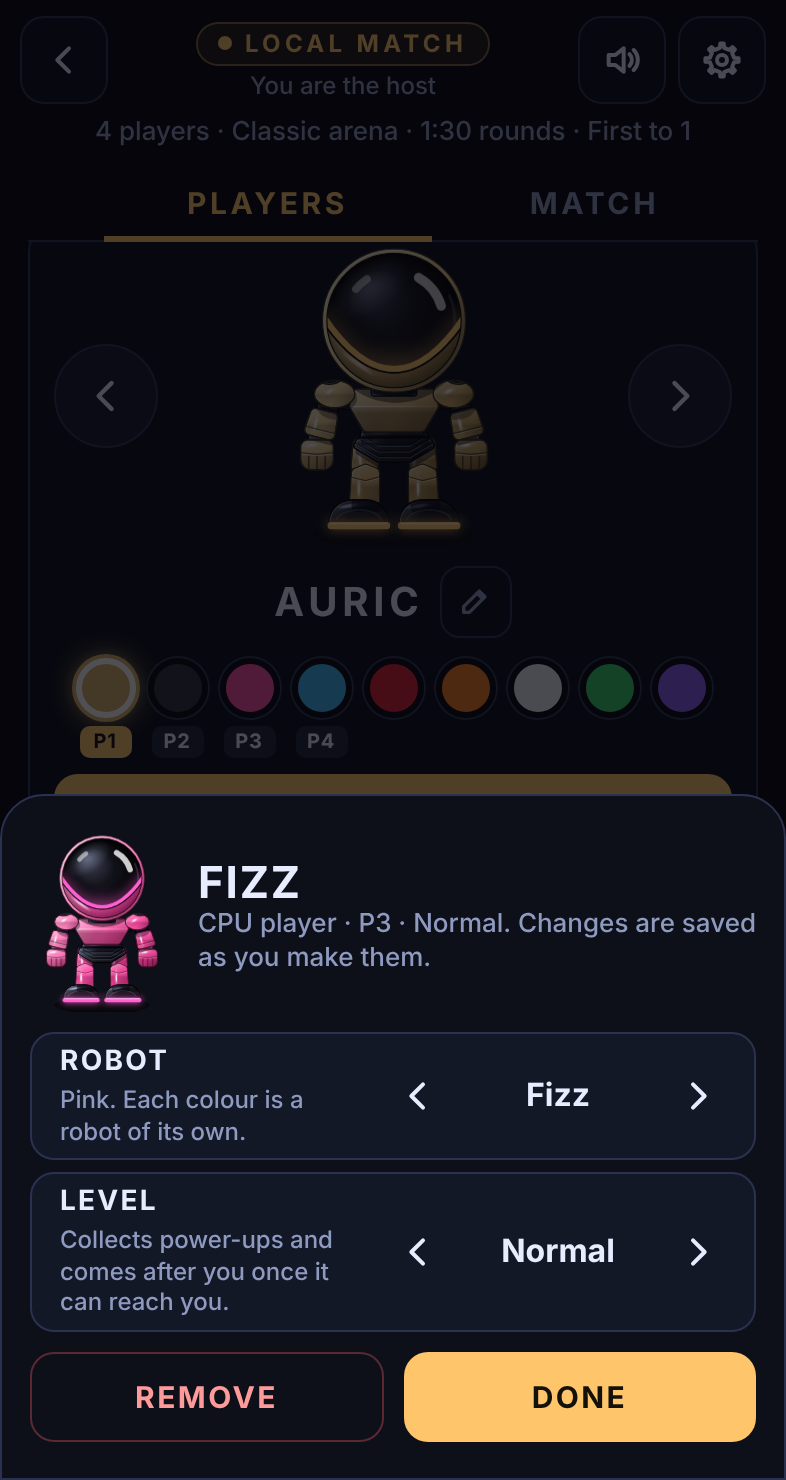
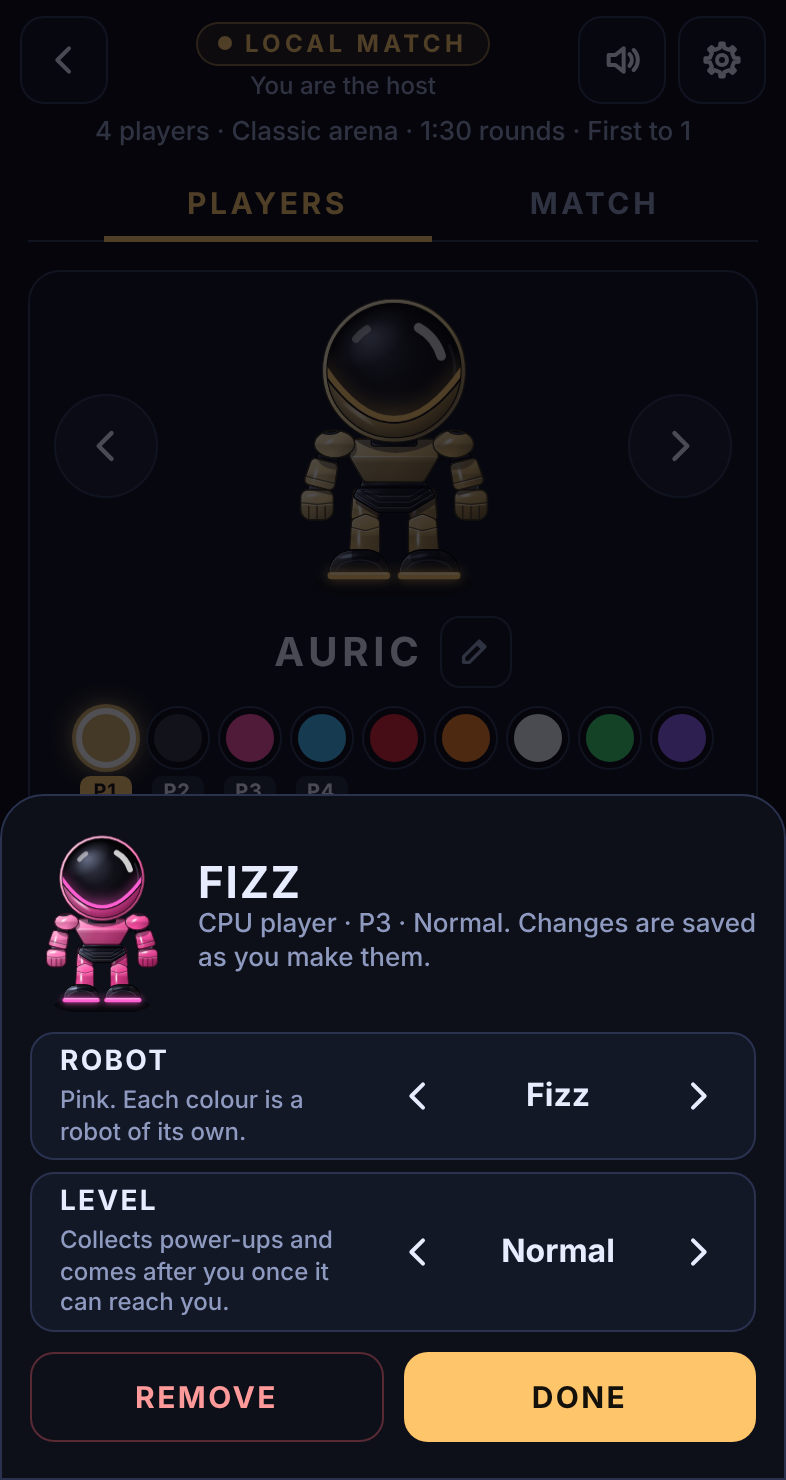
The Players page has no bottom button: Next › or the Match page name go on
Claude-Session: https://claude.ai/code/session_011ftAyXDt63myZfd3j4Vhew

diff --git a/src/lobby.ts b/src/lobby.ts
@@ -624,15 +624,9 @@ export function createLobby(host: LobbyHost): {
   $('lobbyBack').addEventListener('click', () => host.back());
   $('lobbySound').addEventListener('click', () => host.settings('sound'));
   $('lobbySettings').addEventListener('click', () => host.settings());
-  // The main button: on the Players page it goes on to the Match page (the owner's call: a match cannot be
-  // started from the Players page). On the Match page, or a wide screen showing both, it starts the match.
-  $('lobbyStart').addEventListener('click', () => {
-    if (page === 'players' && !wide()) {
-      setPage('match');
-      return;
-    }
-    tryStart();
-  });
+  // The main button, Start: on the Match page, or a wide screen showing both. The Players page has no bottom
+  // bar at all (the owner's ask): its ways on are Next › (Ready, once pressed), the Match page name, and RB or E.
+  $('lobbyStart').addEventListener('click', tryStart);
   // a second Start right under the arena picture, close to hand (the owner's ask); the same as the one in the bar
   $('arenaStart').addEventListener('click', tryStart);
   /** The other players here who have not pressed Ready (with the robot they are showing). */
@@ -783,17 +777,13 @@ export function createLobby(host: LobbyHost): {
     refreshRules();
     // the summary at the top, and whether Start can be pressed
     $('lobbySummary').textContent = summary(s(), G);
-    // the main button: Match › on the Players page, Start on the Match page (or a wide screen)
+    // the main button: Start on the Match page (or a wide screen); none on the Players page
     const go = $<HTMLButtonElement>('lobbyStart');
     const toMatch = page === 'players' && !wide();
-    go.textContent = toMatch ? 'Match ›' : 'Start';
-    // its hint: RB (or E) turns to the Match page; ≡ starts
-    go.dataset.pad = toMatch ? 'RB' : '≡';
-    if (toMatch) go.dataset.key = 'E';
-    else delete go.dataset.key;
-    go.setAttribute('aria-label', toMatch ? 'Go on to the Match page' : 'Start the match');
+    go.parentElement!.hidden = toMatch;
+    go.dataset.pad = '≡'; // its hint
     const why = problem(s(), G);
-    go.disabled = !toMatch && !!why;
+    go.disabled = !!why;
     ($('arenaStart') as HTMLButtonElement).disabled = !!why;
     const note = $('startNote');
     const late = waiting().map((g) => `P${guests().indexOf(g) + 2}`);
@@ -820,7 +810,7 @@ export function createLobby(host: LobbyHost): {
       nameBox.hidden = true;
       $('youName').hidden = false;
       setPage(p ?? page);
-      $('lobbyStart').focus({ preventScroll: true });
+      $(page === 'players' && !wide() ? 'colOk' : 'lobbyStart').focus({ preventScroll: true });
     },
     hide(): void {
       hideUndo();

diff --git a/src/page.html b/src/page.html
@@ -427,6 +427,7 @@
     #lobby .pages-row { height: 0; border: 0; overflow: hidden; visibility: hidden; }
   }
   .foot { flex: 0 0 auto; display: grid; grid-template-columns: 108px minmax(0, 1fr) 108px; align-items: center; gap: 8px; padding: 6px 12px 12px; max-width: 560px; width: 100%; margin: 0 auto; }
+  .foot[hidden] { display: none; }
   .foot.one { grid-template-columns: minmax(0, 1fr); max-width: 420px; }
   .foot-note { flex: 0 0 auto; margin: 0 14px; text-align: center; font: 500 13px/1.3 var(--font-body); color: #ff9a9a; min-height: 0; }
   .foot-note:empty { display: none; }
@@ -732,7 +733,7 @@
   <button id="btnA" class="tbtn" type="button" aria-label="A button, drop bomb">A</button>
 </div>
 
-<!-- The lobby: two pages, Players and Match, with one slim button in the bottom bar (Match › or Start).
+<!-- The lobby: two pages, Players and Match, with one slim Start in the bottom bar on the Match page (none on the Players page).
      main.ts and lobby.ts fill it in. On a wide screen both pages show side by side. -->
 <div id="lobby" class="screen" hidden>
   <header class="bar">
@@ -799,7 +800,7 @@
   <div class="undo" id="undoBar" role="status" hidden><span id="undoText"></span><button class="mini" id="undoBtn" type="button">Undo</button></div>
   <p class="foot-note" id="startNote" role="status"></p>
   <footer class="foot one">
-    <button id="lobbyStart" class="go big" type="button">Start</button>
+    <button id="lobbyStart" class="go big" type="button" data-pad="≡">Start</button>
   </footer>
 </div>
 

diff --git a/tools/screenshots.py b/tools/screenshots.py
@@ -76,11 +76,11 @@ class Thumb:
 
 
 async def start_round(page):
-    """From the lobby (as a fresh visit leaves it, on the Players page): Ready, Match ›, then Start."""
+    """From the lobby (as a fresh visit leaves it, on the Players page): Ready, Next ›, then Start."""
     if await page.evaluate("document.getElementById('lobbyMatch').hidden"):
-        if not await page.evaluate("document.getElementById('colOk').disabled"):
+        if await page.evaluate("document.getElementById('colOk').textContent") != "Next ›":
             await page.tap("#colOk")  # Ready
-        await page.tap("#lobbyStart")  # Match ›
+        await page.tap("#colOk")  # Next ›
     await page.tap("#lobbyStart")
     if await page.evaluate("!document.getElementById('confirm').hidden"):
         await page.tap("#confirmYes")
@@ -119,7 +119,7 @@ async def main():
         await page.tap("#colOk")
         await page.wait_for_timeout(500)
         await page.screenshot(path=str(OUT / "lobby-ready.png"))
-        await page.tap("#lobbyStart")  # Match ›
+        await page.tap("#colOk")  # Next ›
         await page.wait_for_timeout(100)
         await page.screenshot(path=str(OUT / "lobby-match.png"))
         await page.tap("#lobbyPrev")

diff --git a/CLAUDE.md b/CLAUDE.md
@@ -38,7 +38,7 @@ Do not undo these unless asked. The reasons are in `docs/ROADMAP.md` and `docs/C
 - The robot stops where you let go. Whole-tile stepping was tried and rejected (`stepAssist` exists in `sim.ts` but stays off, with no menu setting).
 - A resting thumb has a quiet zone; small movements, slow drift and bounce-back are ignored. Its size is fixed (`QUIET` 30 px). A menu choice of swipe length was tried and removed: do not bring it back unless asked.
 - The Players page has no explanations (the owner's call): no help paragraphs, only a short "Swaps with P3" under your robot's name when Ready would swap with a CPU player. Settings' icon is a gear.
-- The lobby (`lobby.ts`, setup in `setup.ts`), built to the owner's notes on an approved mockup: every button works, back and forward work, more than one way to do each thing, a switch that reveals a slider under it, more options, each CPU player's level its own, and saying whether play is local or online. Two pages, Players and Match. The Players page cannot start a match (the owner's call): its bottom bar is one wide **Match ›** button. The bottom bars are slim (the owner's ask). The Match page's way back to Players is a ‹ at the top left beside the page names (`lobbyPrev`, the owner's ask), and its bar is **Start**; there is a second Start right under the arena picture (the owner's ask, to be close to hand; `arenaStart`, the same `tryStart`); Start when you are not ready asks first ("Are you ready?", its button just **Ready & Start**, no robot names, the owner's wording; the same button when other players here are not ready), and a line above the bar says you are not ready. On a wide screen both pages show side by side and the button is Start. Players: your colour by ‹ ›, dots or a swipe; once you press Ready the button becomes **Next ›**, on to the Match page (the owner's ask; just ✓ Ready on a wide screen); a card per player; a CPU player's panel (Colour, Level, Remove, Done); Add CPU player up to seven (eight players in all: the owner's limit); a bin on each CPU player's card removes it at once, with Undo; All CPUs. Match (the host's): the arena (Compact, Classic, Big) and the rules (Round timer with length and Closing in, Rounds to win, Bricks, Custom start, Custom power-ups; Put the rules back to normal). Sliders have − and + beside them. Saved as it changes. Build any new setting from `ui.ts` controls, and only add one that really does something.
+- The lobby (`lobby.ts`, setup in `setup.ts`), built to the owner's notes on an approved mockup: every button works, back and forward work, more than one way to do each thing, a switch that reveals a slider under it, more options, each CPU player's level its own, and saying whether play is local or online. Two pages, Players and Match. The Players page cannot start a match (the owner's call) and has no bottom bar (the owner's ask); its ways on are Next › (Ready, once pressed), the Match page name, and RB or E. The bottom bars are slim (the owner's ask). The Match page's way back to Players is a ‹ at the top left beside the page names (`lobbyPrev`, the owner's ask), and its bar is **Start**; there is a second Start right under the arena picture (the owner's ask, to be close to hand; `arenaStart`, the same `tryStart`); Start when you are not ready asks first ("Are you ready?", its button just **Ready & Start**, no robot names, the owner's wording; the same button when other players here are not ready), and a line above the bar says you are not ready. On a wide screen both pages show side by side and the button is Start. Players: your colour by ‹ ›, dots or a swipe; once you press Ready the button becomes **Next ›**, on to the Match page (the owner's ask; just ✓ Ready on a wide screen); a card per player; a CPU player's panel (Colour, Level, Remove, Done); Add CPU player up to seven (eight players in all: the owner's limit); a bin on each CPU player's card removes it at once, with Undo; All CPUs. Match (the host's): the arena (Compact, Classic, Big) and the rules (Round timer with length and Closing in, Rounds to win, Bricks, Custom start, Custom power-ups; Put the rules back to normal). Sliders have − and + beside them. Saved as it changes. Build any new setting from `ui.ts` controls, and only add one that really does something.
 - Each colour is a robot with a name of its own (`bot` in `COLORS`, `botName` in `render.ts`; Claude's names, asked for by the owner): Gold Auric, Black Onyx, Pink Fizz, Blue Volt, Red Blaze, Orange Tango, White Frost, Green Gizmo, Purple Vortex. The menus and results use these names in place of colour words: the big name over the colour dots in the lobby, the player cards, a CPU player's panel (its Robot choice), the menu's standings, "Volt wins the round", "Caught in Fizz's blast". A CPU player's name is its robot's, so it changes with its colour.
 - You can type your own name: the pencil beside the name over the colour dots swaps it for a box (`myName`; up to 12 characters, saved as `playerName`; Enter, a tap elsewhere or the pencil again finishes; emptied, it goes back to the robot's name). It shows there, on your player card and in the menu's standings in place of the robot's name or "You" (the owner's design, in place of a "Your name" row); results still say "You". Online, every real player will type theirs there. A typed name is always set as text, never as markup, and the game's keys (moves, A, B, Q, E) are ignored while typing (`typing` in `input.ts`).
 - Ask first (`confirmFirst` in `ui.ts`) before anything that cannot be undone: Restart, Leave to the lobby, Put the rules back to normal. Removing a CPU player (the bin on its card, or Remove on its panel) does not ask, as the owner wanted it quick: it shows an Undo bar for six seconds instead. Nothing else asks. Escape goes back one step everywhere; Q and E turn pages.

diff --git a/docs/ROADMAP.md b/docs/ROADMAP.md
@@ -128,7 +128,7 @@ This is the brief the project started from.
 | The lobby (November 2026) | Built after the owner's brainstorm and a mockup he approved, then his notes on it: every button must work, back and forward must work, allow for what the player meant in more than one way, a switch that reveals a slider under it, more options for every setting, each CPU player's level its own, and say whether the match is local or online. Two pages, Players and Match, with page names along the top and the other page's name either side of Start at the bottom; on a wide screen both side by side. **Players:** your colour three ways (‹ ›, a dot each, a swipe across the robot); a card per player; a CPU player's card opens its panel (Colour, Level, Remove, Done); Add CPU player, up to three; All CPUs sets every level at once. **Match** (the host's): the arena (Compact, Classic, Big; ‹ ›, dots or a swipe; the picture is the real arena) and the rules: Round timer (switch; length and Closing in under it), Rounds to win, Bricks, Custom start (switch; bombs, blast, speed under it), Custom power-ups (switch; one slider per power-up under it), and Put the rules back to normal. Every slider has − and + beside it. Everything is saved as it changes. A "Local match" chip and "You are the host" are at the top, with a one-line summary of the match. Claude's design within those notes. |
 | Allowing for what the player meant | Read as two things: more than one way to do each thing (arrows, dots, swipes, tapping a switch's name as well as the switch, − and + beside sliders, keys: ← →, Q and E for pages, Escape back one step), and asking first before anything that cannot be undone (Restart, Leave to the lobby, Put the rules back to normal; removing a CPU player at first, until the owner asked for a quick bin, which shows Undo instead). Nothing else asks. |
 | Picking your colour, then Ready | The owner's design: in solo play you can pick any colour, a CPU player's included, and a CPU player wearing it takes the one you had. Picking shows the colour on your robot; **Ready** (first called OK; renamed by the owner) makes it yours, pops up a P1 tag under its dot, and puts a ✓ Ready check on your player card. Tags P2 to P9 sit under the CPU players' colours, and their cards are always ✓ Ready. A double tap on a dot is a quick Ready. Picking another colour takes Ready away until it is pressed again. Ready resets for every match, not when coming back from Settings. Online, every player will press Ready on their own colour, and can pick another and press it again. (The lobby's first version greyed out the CPU players' colours.) Colours can only change in the lobby, between matches. |
-| The Players page cannot start a match | The owner's call: its bottom bar is one wide Match › button, so the only way on is the Match page, where Start is. Start when you are not ready asks first, and the Match page says you are not ready. On a wide screen, with both pages showing, the button is Start. |
+| The Players page cannot start a match | The owner's call: the only way on is the Match page, where Start is. The Players page had a wide Match › button at the bottom; the owner later asked for it to go, so its ways on are Next › (Ready, once pressed) and the Match page name. Start when you are not ready asks first, and the Match page says you are not ready. On a wide screen, with both pages showing, the button is Start. |
 | Up to eight players | The owner asked for up to eight CPU players at first, then set the limit at eight players in all (seven CPU players). Starting places follow his plan: four in the corners, a fifth in the middle, six with two in the middle row, and past six a bigger arena (two tiles bigger each way). Seven and eight also use the middle of the edges (`spawnPoints` in `sim.ts`, tested for every count and size: everyone on open floor, at least four tiles apart). With more than four players the scoreboard has a place for each: upright in the free line under the top bar, sideways in rows of five. Nine Hard CPU players cost under half a millisecond a tick on a laptop. Online play will use the same places. |
 | Next round while you are out gives the round to a CPU player | The owner's call for solo play: if you are knocked out and press Next round while CPU players are still fighting, one of those still in, picked at random, gets the round and its point, so the score always moves. If that point wins the match, the match result shows instead of a new round. The knocked-out panel says this will happen. Online, rounds will be played out instead. |
 | Matches | The first to win the lobby's Rounds to win (1 unless changed) wins the match. The result panel then says so with the final score and offers Rematch or Lobby. Leaving a match for the lobby ends it, and the score is not kept: the players and rules can only change between matches. |

diff --git a/docs/CONTROLS.md b/docs/CONTROLS.md
@@ -46,7 +46,7 @@ The caption on the swipe pad (*Standard swipes* or *My thumb swipes*) is centred
   <img src="screenshots/menu-paused.png" alt="The menu opened in the middle of a round" width="200">
 </p>
 
-**Local** on the title screen opens the **lobby**, where a match is set up. It has two pages, **Players** and **Match**. The page names along the top switch pages, and on the Match page a **‹** at the top left, beside them, goes back to Players. The bottom bar is one slim button: **Match ›** on the Players page, **Start** on the Match page, and there is a second **Start** right under the arena picture. Once you have pressed **Ready**, that button becomes **Next ›**, which goes on to the Match page. Either Start, when you are not ready, asks first. On a wide screen both pages show side by side.
+**Local** on the title screen opens the **lobby**, where a match is set up. It has two pages, **Players** and **Match**. The page names along the top switch pages, and on the Match page a **‹** at the top left, beside them, goes back to Players. The Players page has no bottom bar: once you have pressed **Ready**, that button becomes **Next ›**, which goes on to the Match page (or tap **Match** along the top). The Match page's bottom bar is one slim **Start**, and there is a second **Start** right under the arena picture. Either Start, when you are not ready, asks first. On a wide screen both pages show side by side.
 
 - **Players:** your robot, with ‹ › either side, a dot for each colour under it, and a swipe across the robot: three ways to pick a colour. Each colour is a robot with its own name (Auric, Onyx, Fizz, Volt, Blaze, Tango, Frost, Gizmo, Vortex), shown over the dots and on the cards. The **pencil** beside that name lets you type your own name in its place. It shows on your robot, and becomes yours when you press **Ready** (or double-tap the dot): a **P1** tag pops up under it, your card shows **✓ Ready**, and the Ready button becomes **Next ›** (on a wide screen, where both pages show, it says **✓ Ready**). **P2** to **P8** sit under the CPU players' colours, and CPU players are always ready. Take a CPU player's colour and it gets the one you had. Picking another colour takes Ready away until you press it again. This page has no Start: its bottom bar is one wide **Match ›** button. Then a card for each player. Tap a CPU player's card for its panel: Colour, Level (with what that level does), Remove and Done. The **bin** on a CPU player's card removes it at once; an **Undo** bar shows for a few seconds. **Add CPU player** adds one, up to seven (eight players in all). With more than six players the arena grows by two tiles each way. **All CPUs** sets every CPU player's level at once.
 - **Match** (the host's): the arena, with ‹ ›, dots or a swipe (Compact 11 by 9 tiles, Classic 13 by 11, Big 15 by 13; the picture is the real arena, with the bricks the rules ask for), then the rules: Round timer (a switch; when on, Round length and Closing in appear under it; picking an arena puts in its own round length and closing speed), Rounds to win, Bricks, Custom start (a switch; Bombs, Blast and Speed under it), Custom power-ups (a switch; a slider for each power-up under it). **Put the rules back to normal** asks first.
@@ -80,7 +80,7 @@ On a computer the touch controls are hidden and the keyboard is used. An Xbox co
 
 In the menus with a controller: the stick or D-pad moves the highlight, and held it keeps going; on a slider or a ‹ value › setting, left and right change it. **A** presses the highlighted button, **B** goes back one step, **LB** and **RB** turn the pages, **Y** is Ready in the lobby, and **≡** is Start in the lobby and opens or closes the menu in a round. The controller shakes (rumble) when your robot is knocked out and when a blast goes off within two tiles of it, unless Rumble is off in Settings › Controls.
 
-**Hints follow the last thing used.** After a controller button, small chips show which button does what (B on the back arrow, Y on Ready, RB on Match ›, ≡ on Start, LB on the lobby's ‹ and LB and RB on the Settings page arrows) and the highlighted button has a clear outline. After a key, the chips show the keys instead (Q, E, Escape). After a touch or a click, they go.
+**Hints follow the last thing used.** After a controller button, small chips show which button does what (B on the back arrow, Y on Ready, ≡ on Start, LB on the lobby's ‹ and LB and RB on the Settings page arrows) and the highlighted button has a clear outline. After a key, the chips show the keys instead (Q, E, Escape). After a touch or a click, they go.
 
 ### Changing keys and buttons
 
